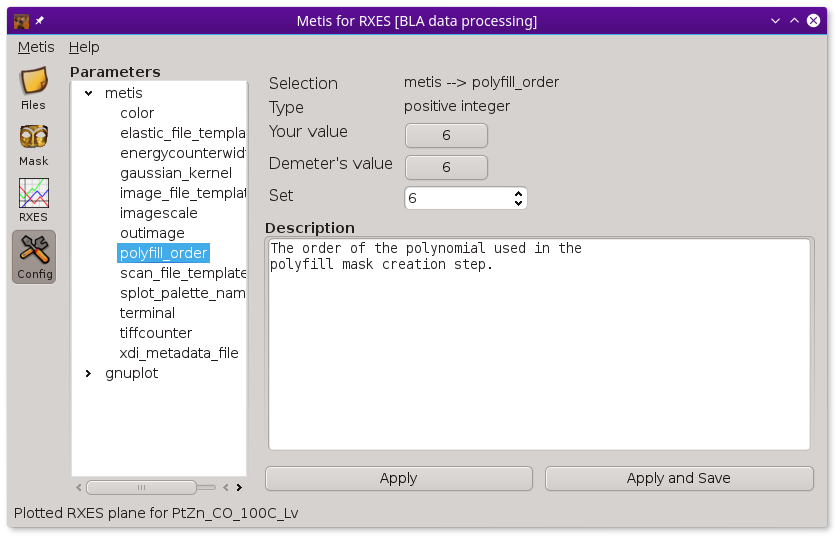
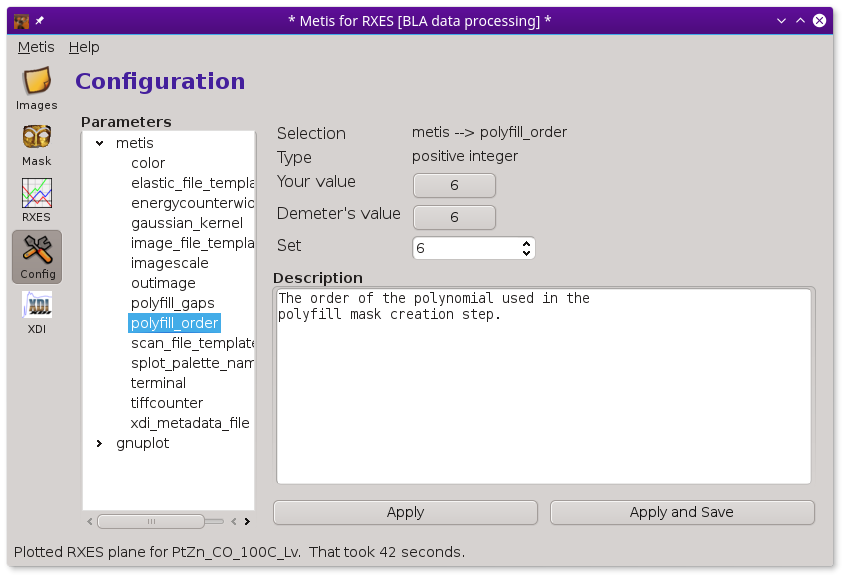
update doc images

Changed region(s): [[0.0, 0.0, 0.9905, 0.9778], [0.65, 0.8593, 0.9595, 0.9185], [0.9595, 0.8593, 0.9905, 0.8889]]

diff --git a/doc/metis/index.rst b/doc/metis/index.rst
@@ -12,6 +12,15 @@ functionality for HERFD, XES, and RXES data sets or for individual
 images.  At the command line, it is invoked with a command line
 argument to put it into the correct mode.
 
+======  ================================================
+Mode    purpose
+======  ================================================
+xes     non-resonant emission spectroscopy
+herfd   high resolution XANES
+rxes    RIXS plane
+mask    process an individual elastic image
+======  ================================================
+
 
 To start :demeter:`metis` in XES mode, provide the ``xes`` argument:
 
@@ -26,8 +35,6 @@ To start :demeter:`metis` in XES mode, provide the ``xes`` argument:
 
    :demeter:`metis`, at startup, invoked in XES mode
 
-.. attention:: Many of the screenshots in this document were made
-   before the addition of the XDI button in the sidebar.
 
 Similarly, to begin :demeter:`metis` in ``hrfd``, ``rxes``, or
 ``mask`` mode, do
@@ -38,13 +45,13 @@ Similarly, to begin :demeter:`metis` in ``hrfd``, ``rxes``, or
    metis rxes
    metis mask
 
-The state of your data analysis is maintained separately for the three
-experimental modes.  Along with providing functionality specific to
-the three experimental data sets, you can recover parameters
-appropriate to your analysis of that data.
+
+
+Table of Contents
+-----------------
 
 .. toctree::
-   :maxdepth: 2
+   :maxdepth: 1
 
    files.rst
    mask.rst
@@ -55,3 +62,38 @@ appropriate to your analysis of that data.
 
 
 
+
+Menu bar
+--------
+
+.. figure:: ../_images/metis_menu.png
+   :target: ../_images/metis_menu.png
+   :align: center
+
+   The :guilabel:`Metis` menu.
+
+The :guilabel:`Metis` menu allows you to import and export project
+save files and provides alternative ways |nd| including keyboard
+shortcuts |nd| to move between the tools listed in the toolbar.  There
+is also an option for importing configuration information from a
+`configuration file <../bla/config.html>`_ used by the command line
+program.
+
+The :demeter:`metis` project save file is a normal `HDF5 file
+<hdf5.html>`_ with the :file:`.mpj` file extension.  It can be read
+using any HDF5-sware tool.  It contains some simple semantics to make
+it recognizable to :demeter:`metis`.
+
+The :guilabel:`Help` menu allows you to probe the state of the current
+analysis project.
+
+.. figure:: ../_images/metis_helpmenu.png
+   :target: ../_images/metis_helpmenu.png
+   :align: center
+
+   The :guilabel:`Help` menu.
+
+The first item in the menu presents a simple text display showing the
+state of the Perl object used to organize the analysis.  The second
+item shows a history of status bar messages.  The third item shows the
+Gnuplot commands for the most recently made plot.

diff --git a/doc/metis/mask.rst b/doc/metis/mask.rst
@@ -592,4 +592,7 @@ other modes.
    :demeter:`metis`'s mask creation tool in ``mask`` mode.
 
 The :guilabel:`Emission energy` list has only a single entry and the
-shield step is disabled.  Otherwise, everything works the same.
+shield step is disabled.  Otherwise, everything works the same.  The
+big difference is that the Data tool is not shown in ``mask`` mode.
+The purpose of ``mask`` mode is to play around with the mask creation
+algorithm using an individual file.
